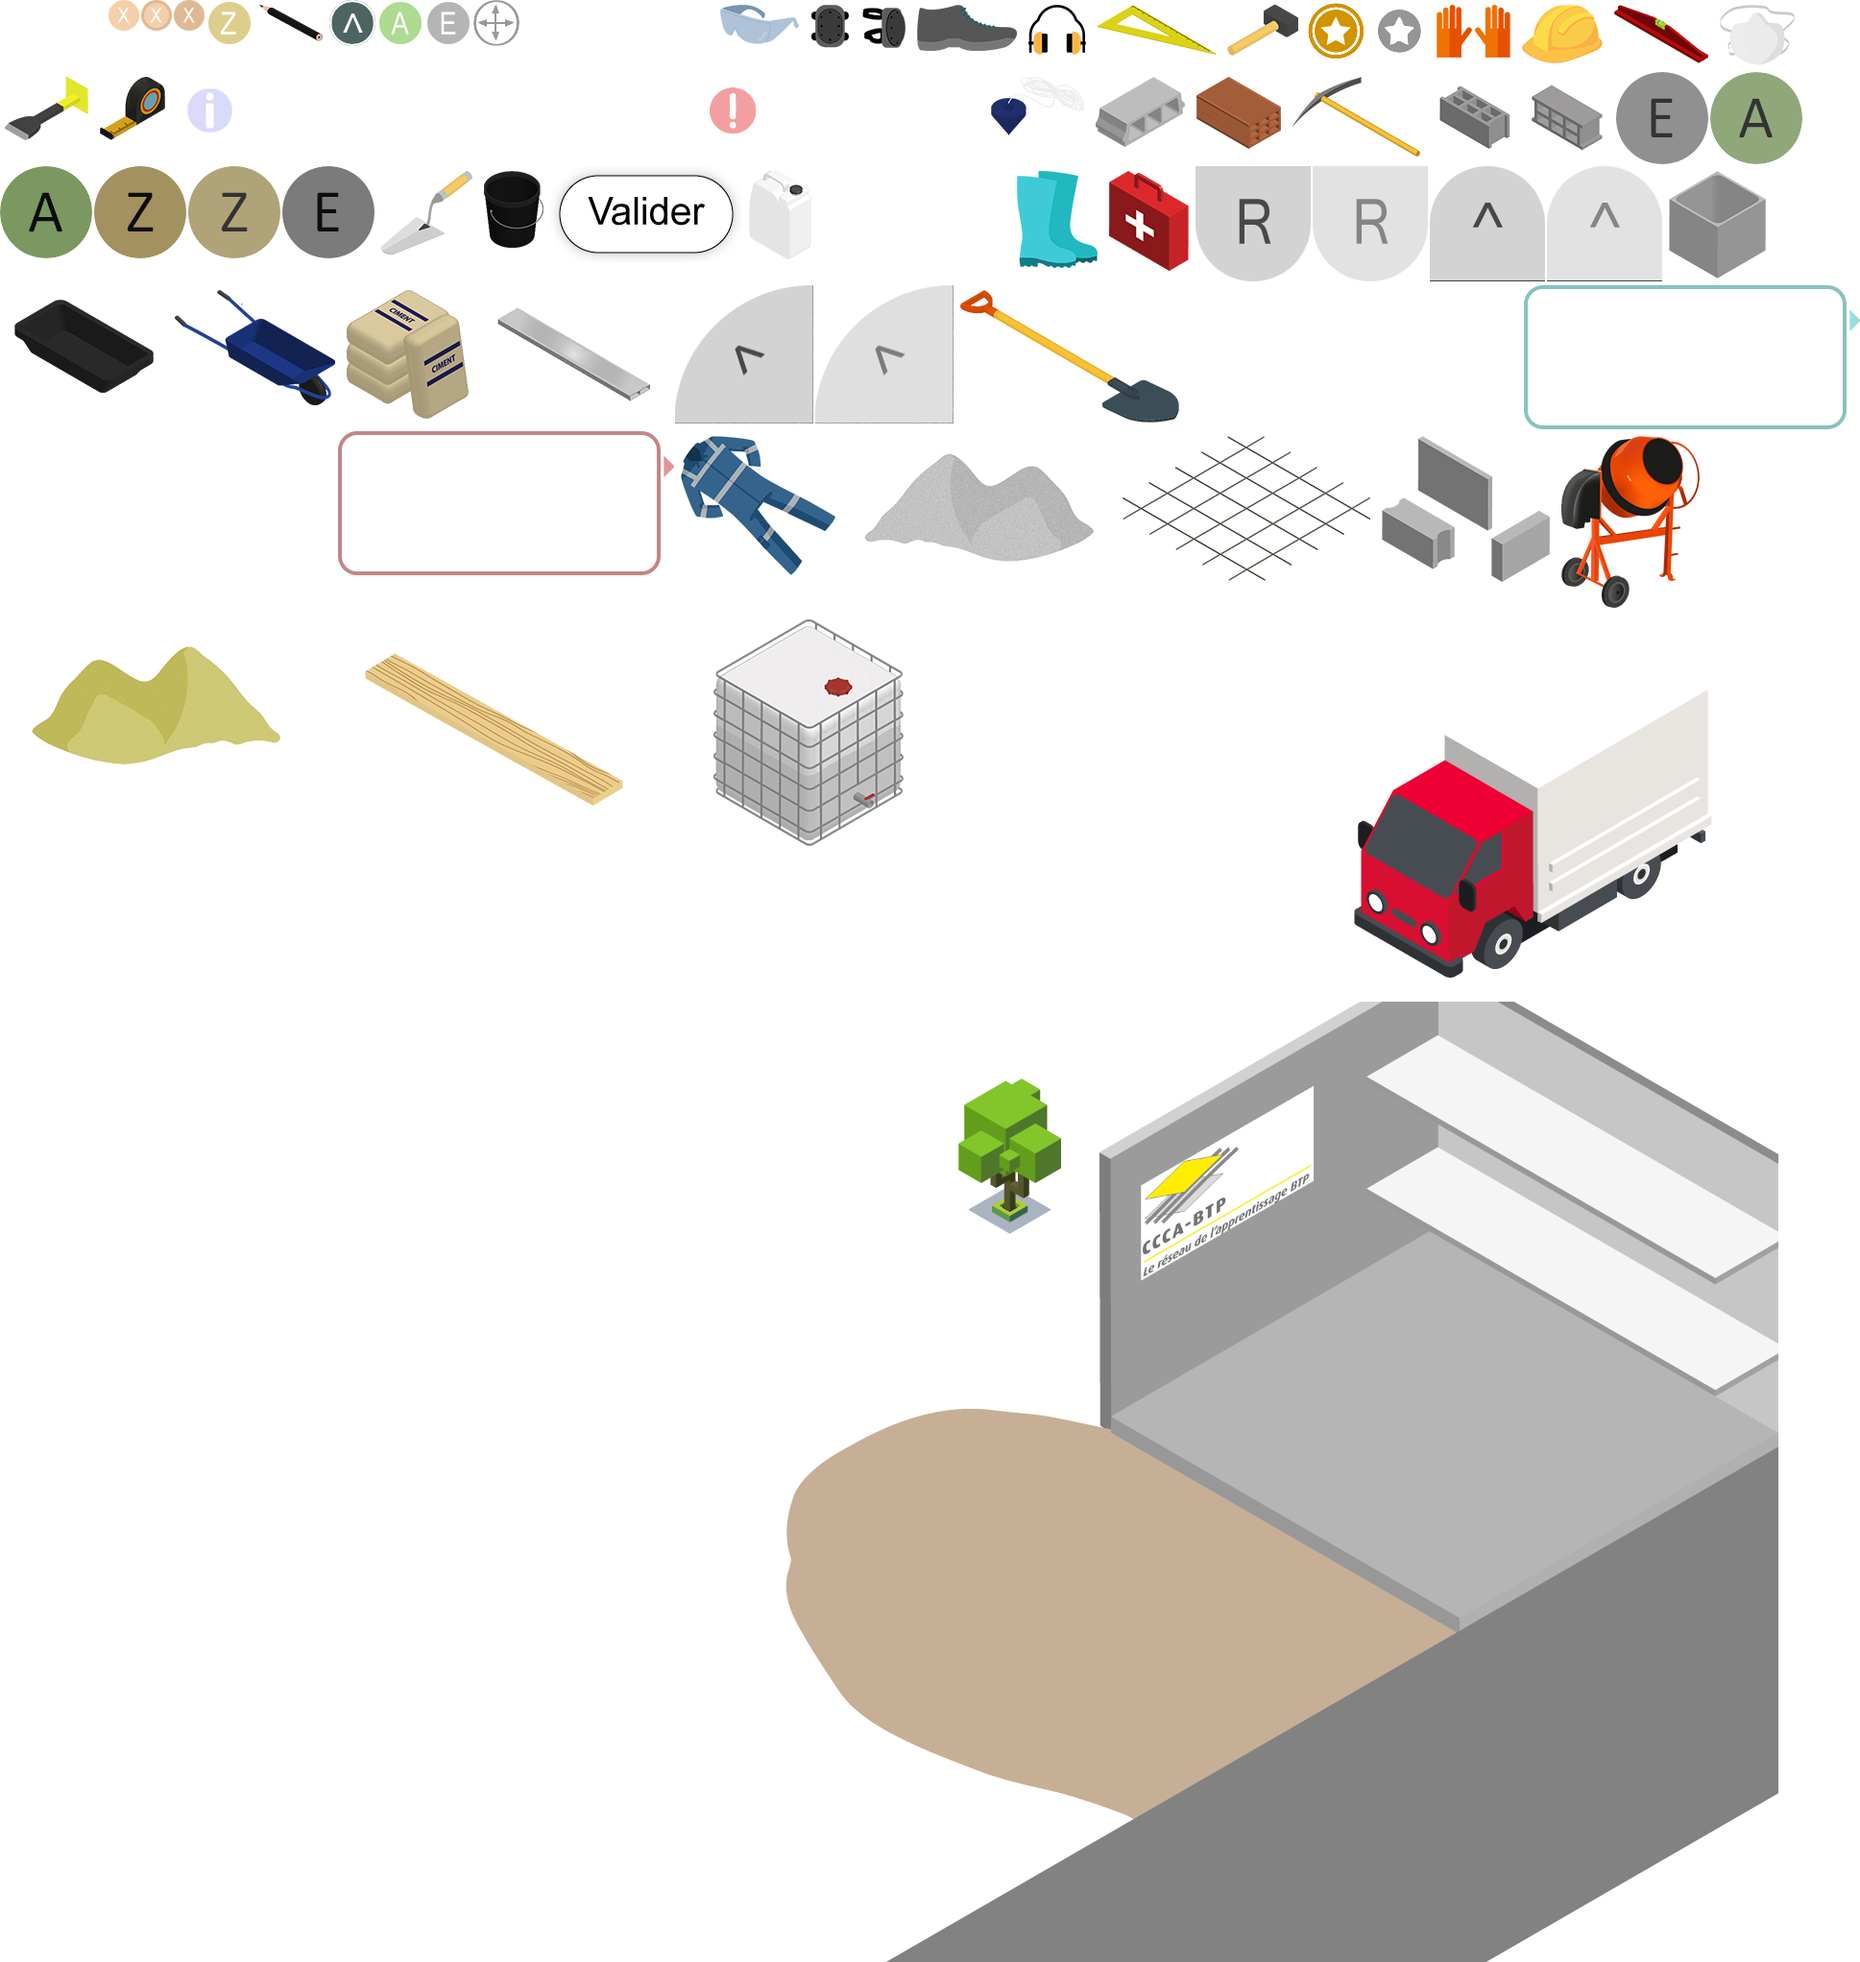
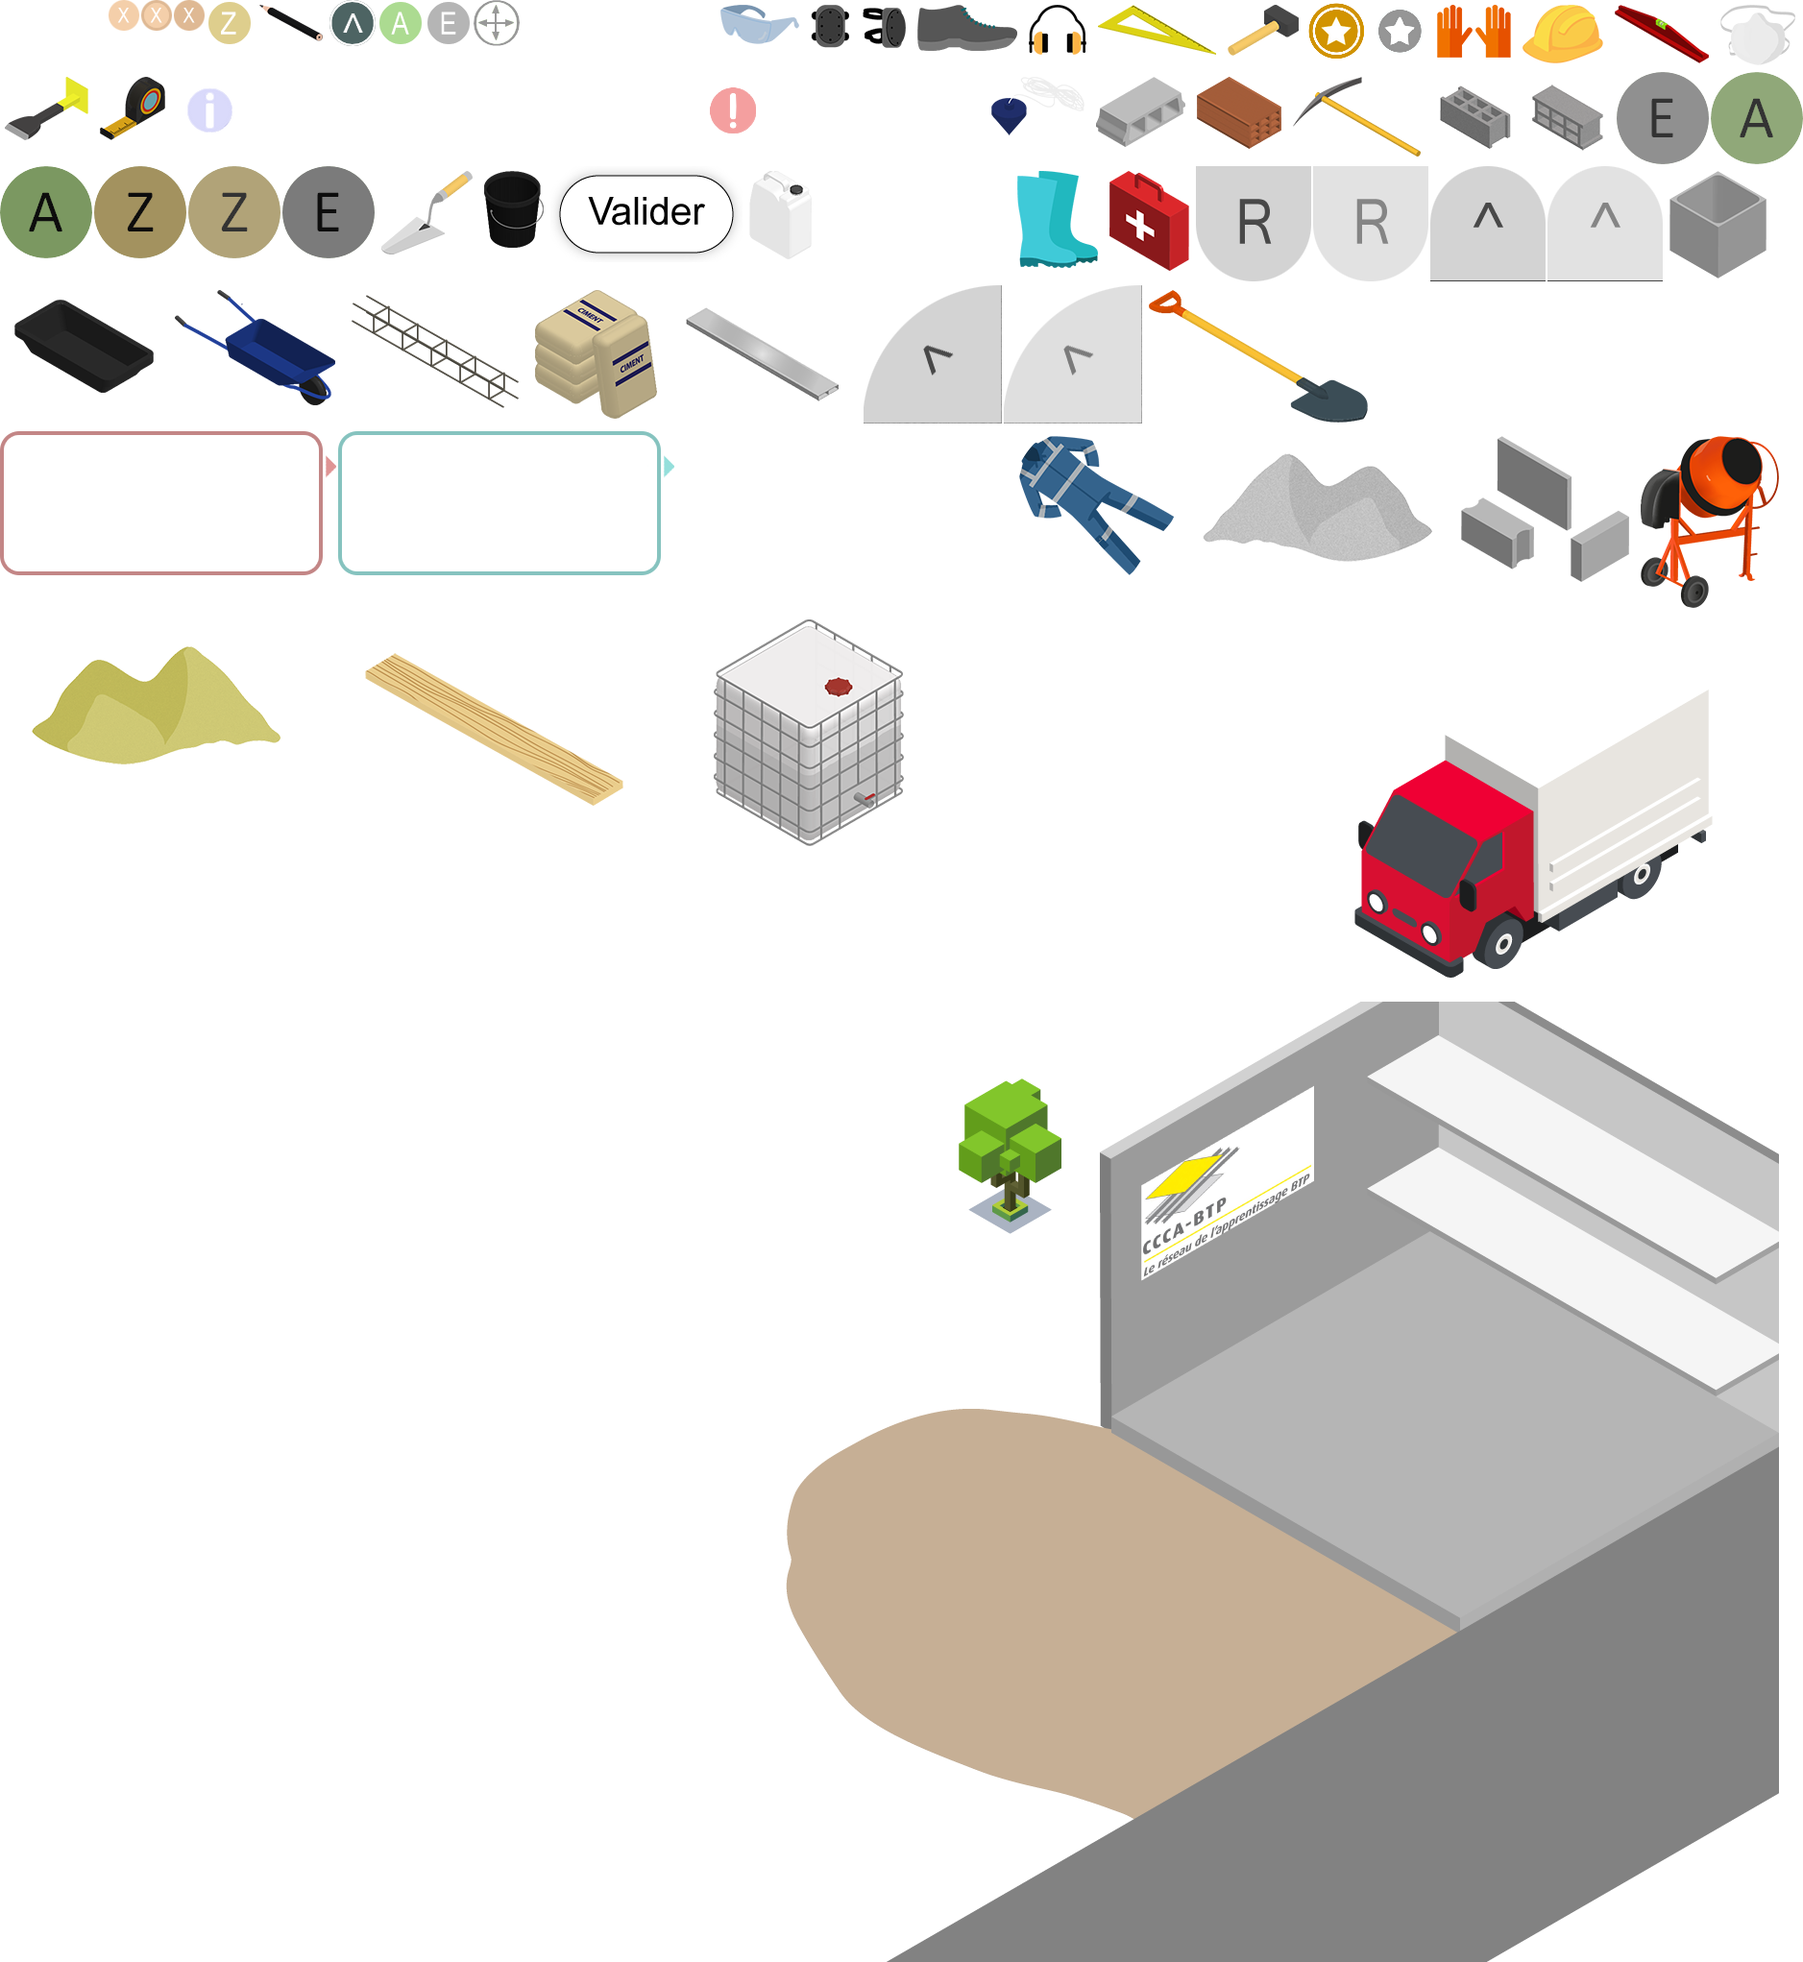
[fix:jeu4] Text corrigé, image remplacé (ferraillage)

diff --git a/src/games/4/components/game/states/Rules.js b/src/games/4/components/game/states/Rules.js
@@ -11,7 +11,7 @@ export default class Rules extends State {
             {font: 'Arial', fill: '#272727', fontSize: this.game.uiScale(21)});
 
         this.game.add.text(this.game.uiScale(80), this.game.uiScale(160),
-            "Tu viens d'arriver sur l'entrepot et tu dois charger le camion avant de te rendre sur le chantier.\n" +
+            "Tu viens d'arriver sur l'entrepôt et tu dois charger le camion avant de te rendre sur le chantier.\n" +
             "Le but de ce chantier est de réaliser un mur en agglo de 20 en retour d'angle.\n" + 
             "Sélectionne les différents éléments nécessaires à ce chantier pour les déposer dans le camion.\n",
             {
